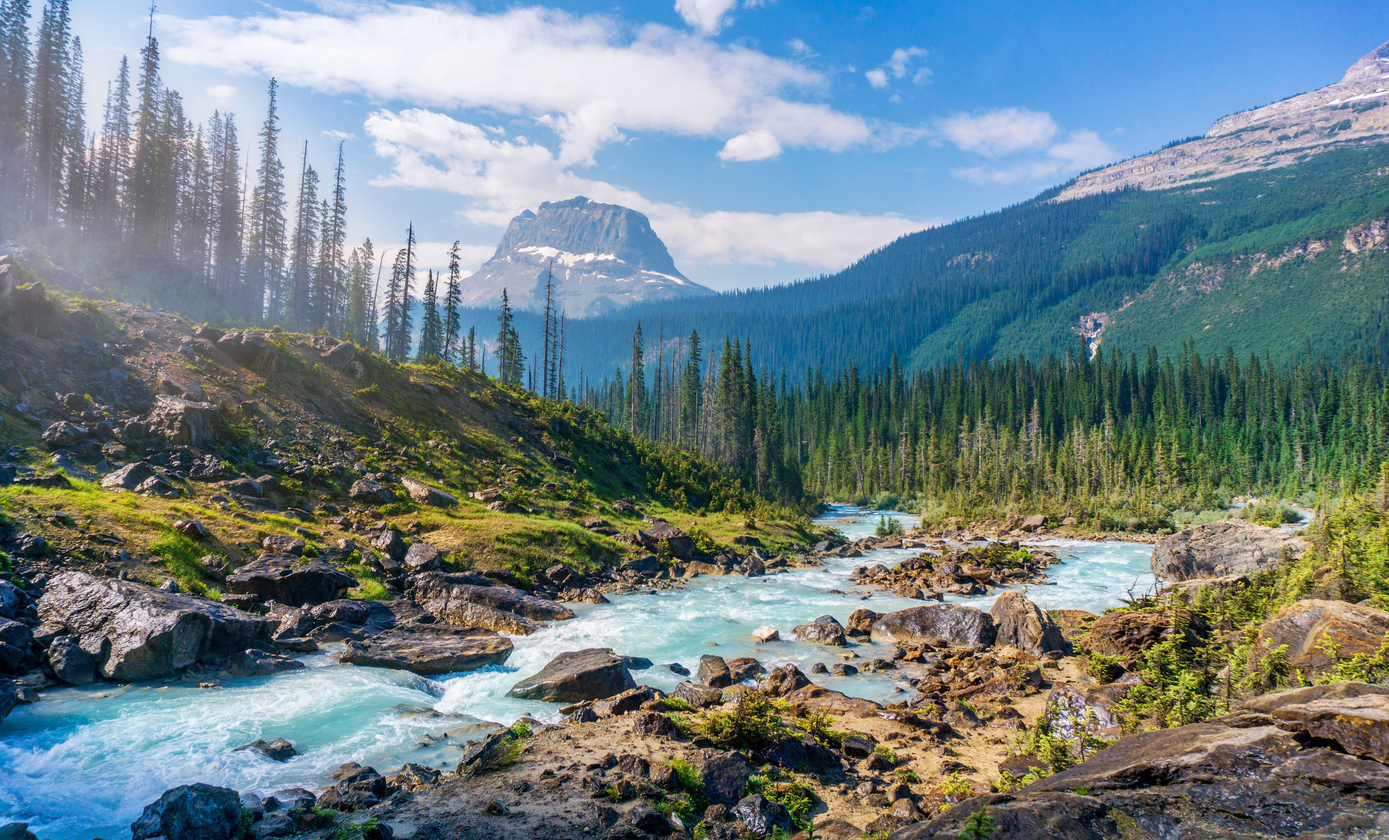
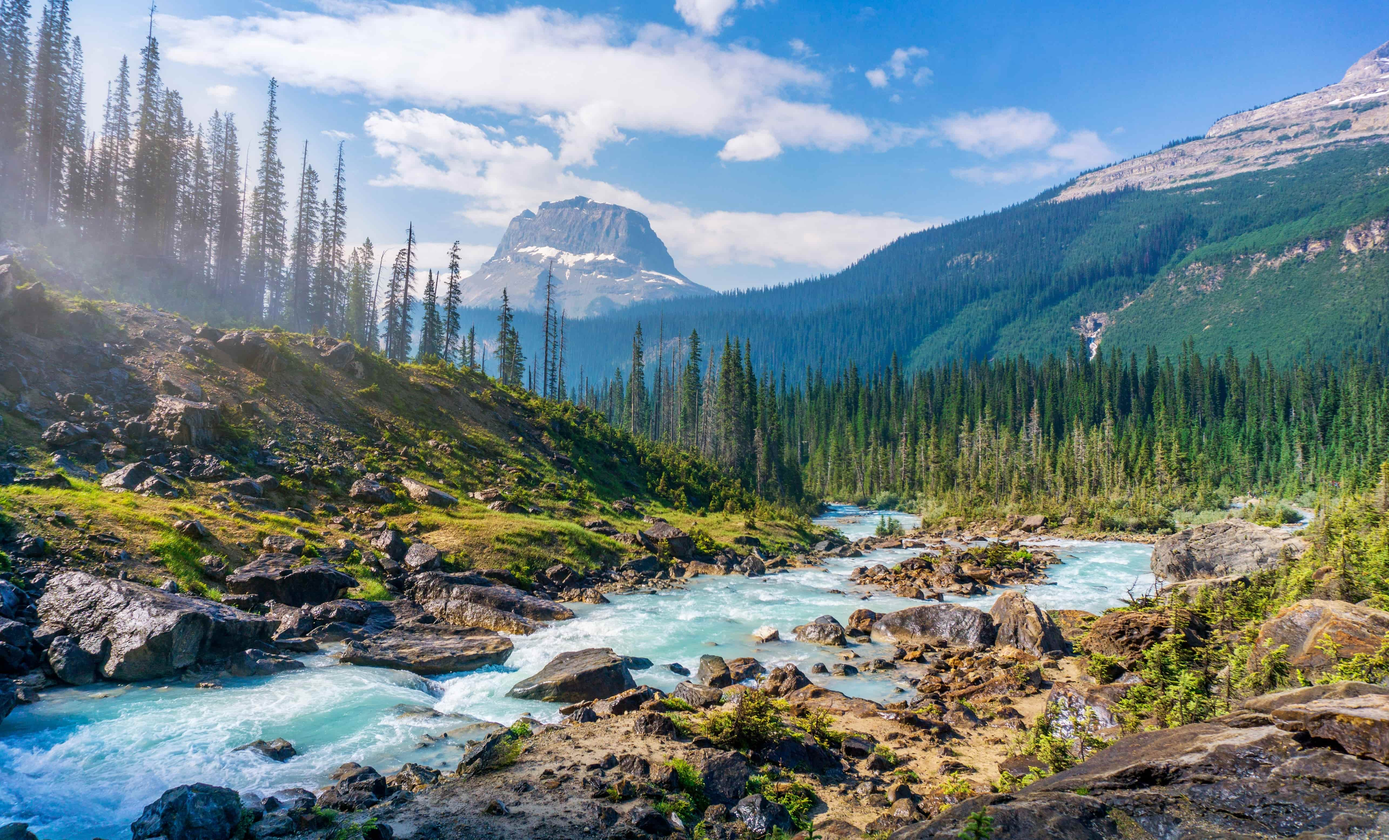
style: compressed images. added background overlay to picture-cards

Changed region(s): [[0.0622, 0.7171, 0.0933, 0.7483]]

diff --git a/tailwind.config.js b/tailwind.config.js
@@ -22,14 +22,10 @@ module.exports = {
         'hero-pattern4': "linear-gradient(rgba(0,0,0,0.5), rgba(0,0,0,0.5)), url('./img/hero-pattern4.jpg')",
         'hero-pattern5': "linear-gradient(rgba(0,0,0,0.5), rgba(0,0,0,0.5)), url('./img/hero-pattern5.jpg')",
         'hero-pattern6': "linear-gradient(rgba(0,0,0,0.5), rgba(0,0,0,0.5)), url('./img/hero-pattern6.jpg')",
-        'picture-card1': "url('./img/picture-card1.jpg')",
-        'picture-card2': "url('./img/picture-card2.jpg')",
-        'picture-card3': "url('./img/picture-card3.jpg')",
-        'picture-card4': "url('./img/picture-card4.jpg')",
-        //    'picture-card1': "linear-gradient(rgba(0,0,0,0.5), rgba(0,0,0,0.5)), url('./img/picture-card1.jpg')",
-        // 'picture-card2': "linear-gradient(rgba(0,0,0,0.5), rgba(0,0,0,0.5)), url('./img/picture-card2.jpg')",
-        // 'picture-card3': "linear-gradient(rgba(0,0,0,0.5), rgba(0,0,0,0.5)), url('./img/picture-card3.jpg')",
-        // 'picture-card4': "linear-gradient(rgba(0,0,0,0.5), rgba(0,0,0,0.5)), url('./img/picture-card4.jpg')",
+        'picture-card1': "linear-gradient(rgba(0,0,0,0.5), rgba(0,0,0,0.5)), url('./img/picture-card1.jpg')",
+        'picture-card2': "linear-gradient(rgba(0,0,0,0.5), rgba(0,0,0,0.5)), url('./img/picture-card2.jpg')",
+        'picture-card3': "linear-gradient(rgba(0,0,0,0.5), rgba(0,0,0,0.5)), url('./img/picture-card3.jpg')",
+        'picture-card4': "linear-gradient(rgba(0,0,0,0.5), rgba(0,0,0,0.5)), url('./img/picture-card4.jpg')",
         'w-img-card': "url('./img/w-img-card.jpg')",
       }),
       boxShadow: {
